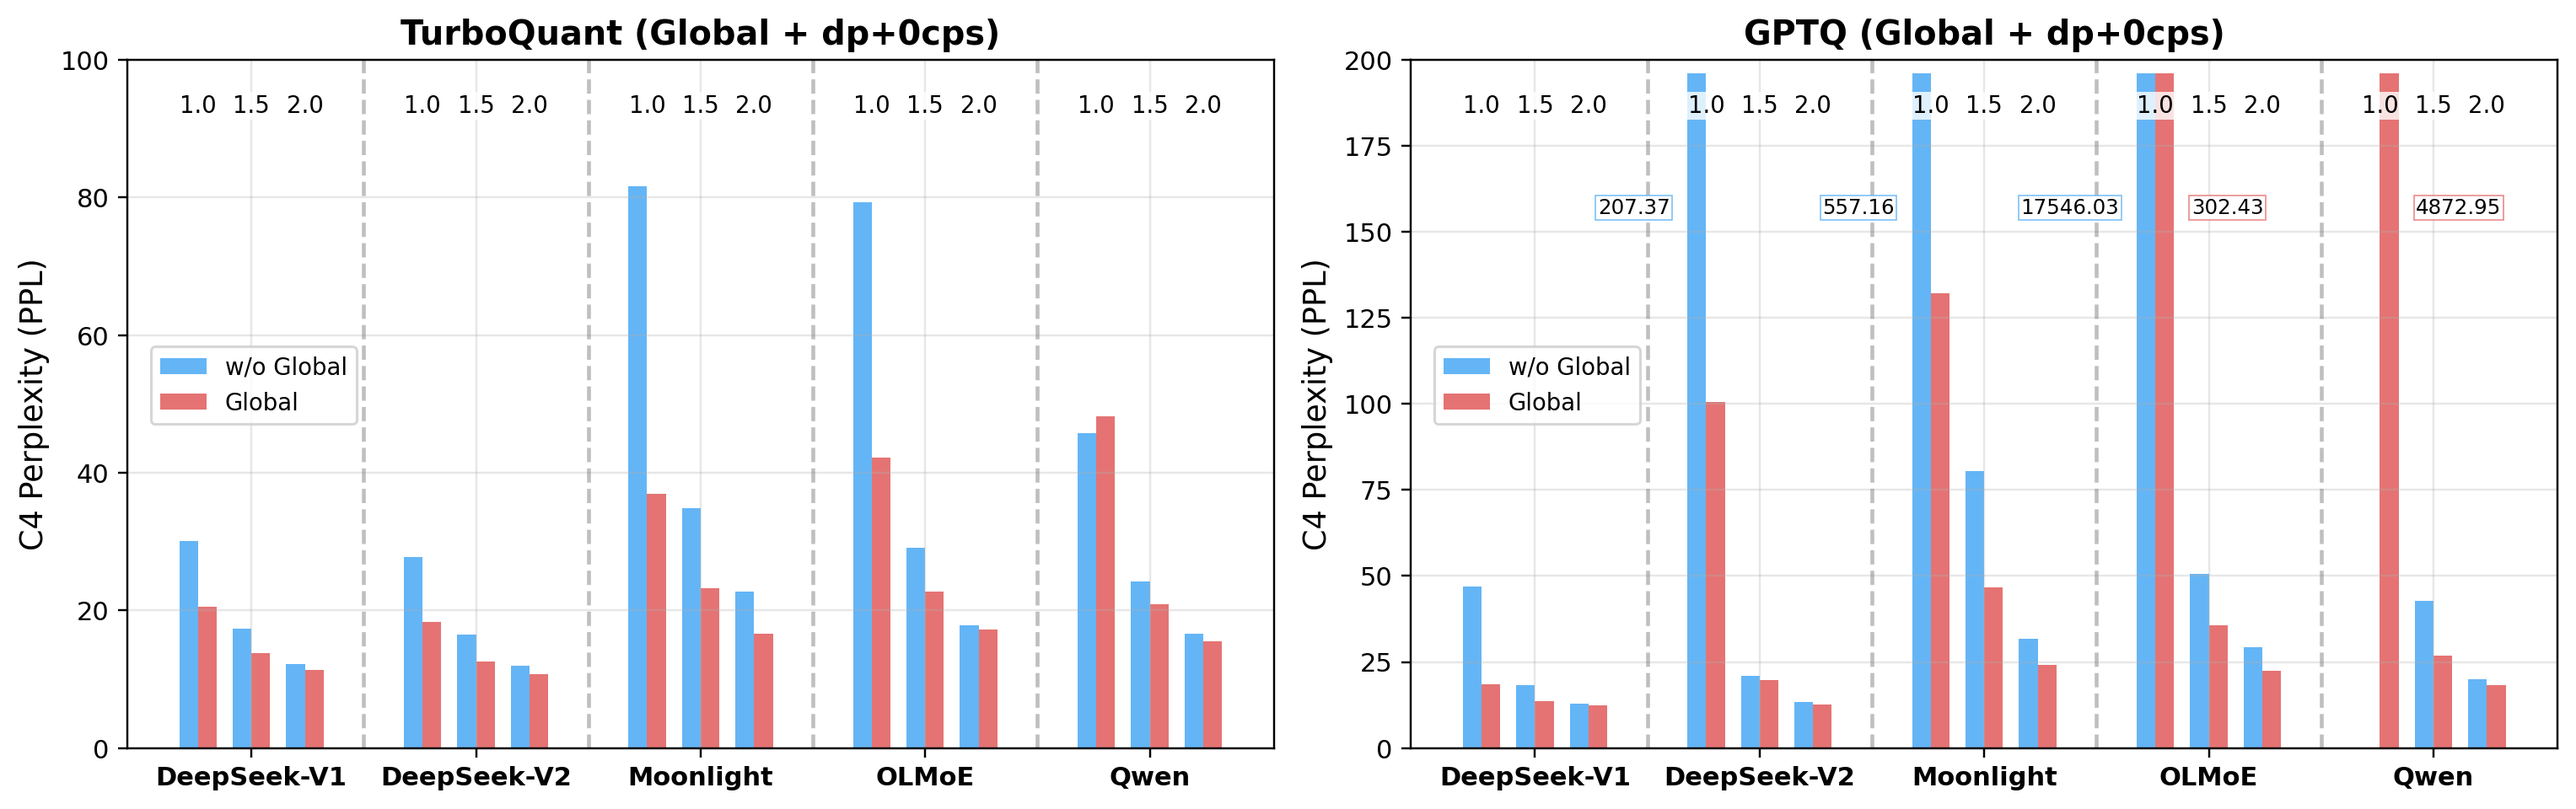
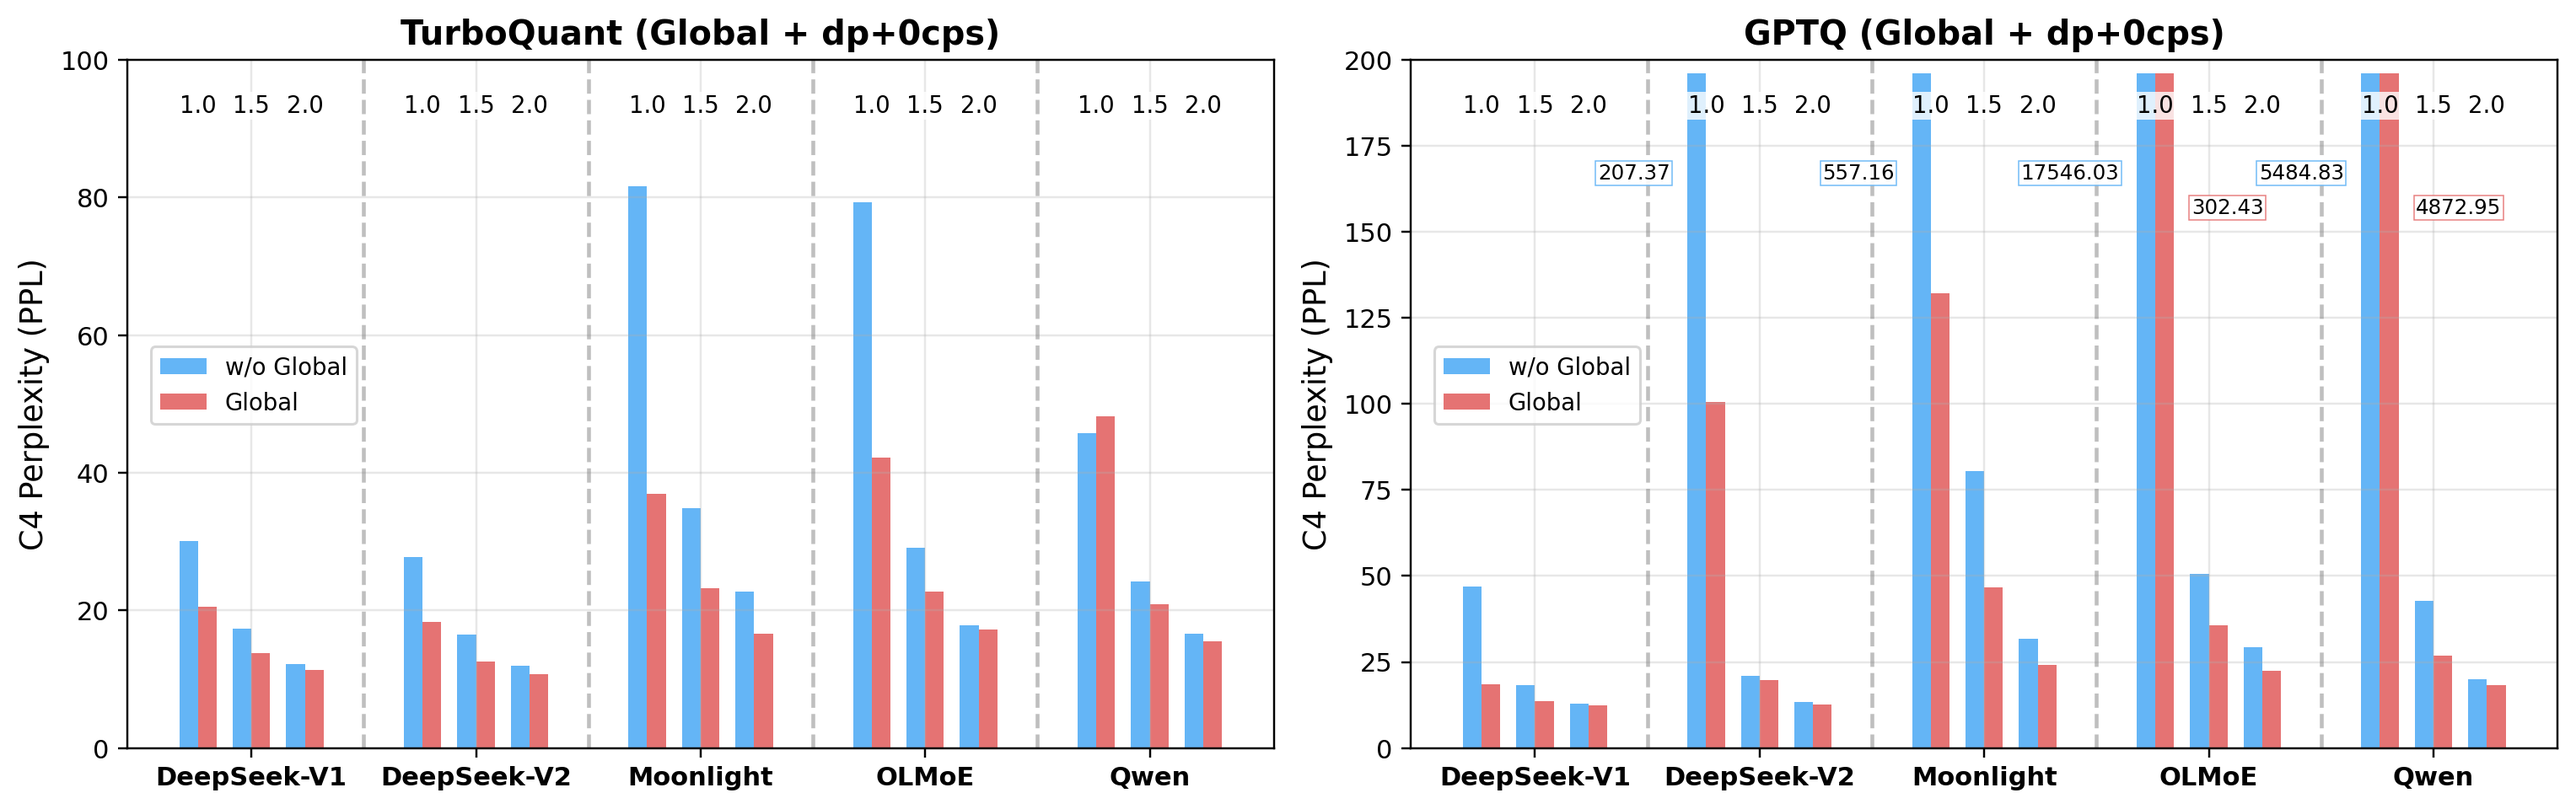
update fig

diff --git a/viz/global_ablation_plots.py b/viz/global_ablation_plots.py
@@ -115,7 +115,7 @@ class GlobalAblationVisualizer:
 
                             # 如果超过显示上限，在柱子顶部标注实际值 - 往左偏移
                             if avg_non > display_limit:
-                                ax.text(current_x - bar_width/2 - 0.5, display_limit * 0.8,
+                                ax.text(current_x - bar_width/2 - 0.5, display_limit * 0.85,
                                        f"{avg_non:.2f}", ha='right', va='top', fontsize=8,
                                        bbox=dict(boxstyle='square,pad=0.1', facecolor='white', alpha=0.9, edgecolor=NO_GLOBAL_COLOR, linewidth=0.5))
                             if avg_global > display_limit:
